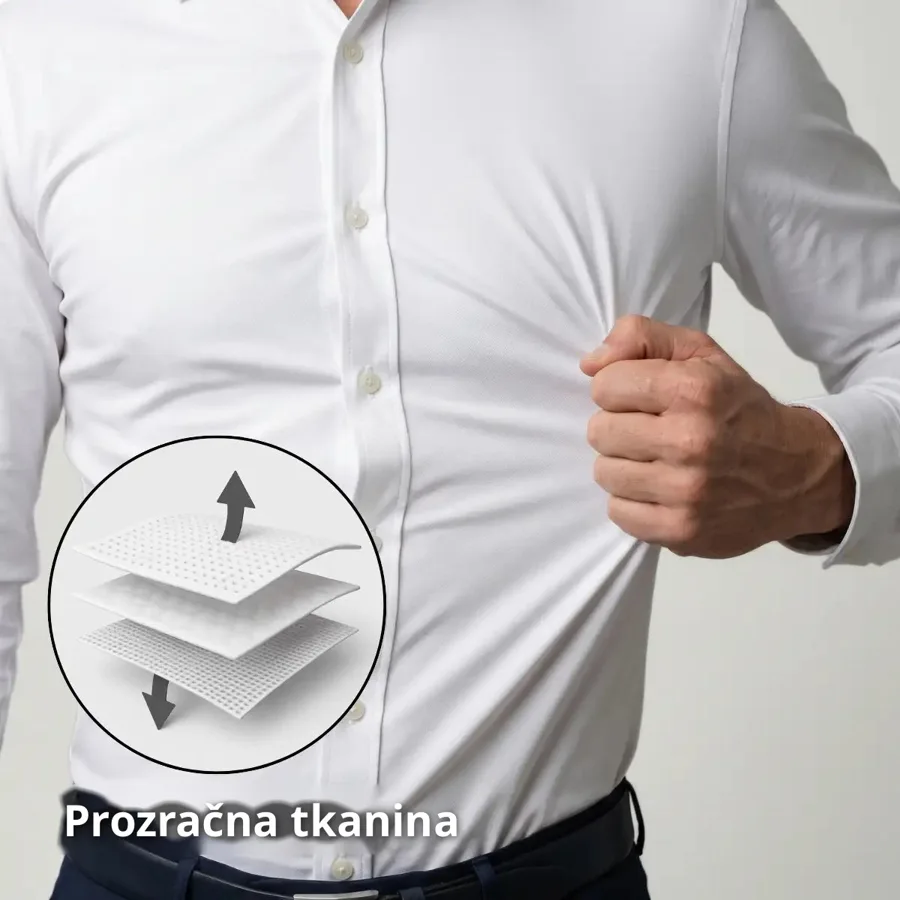
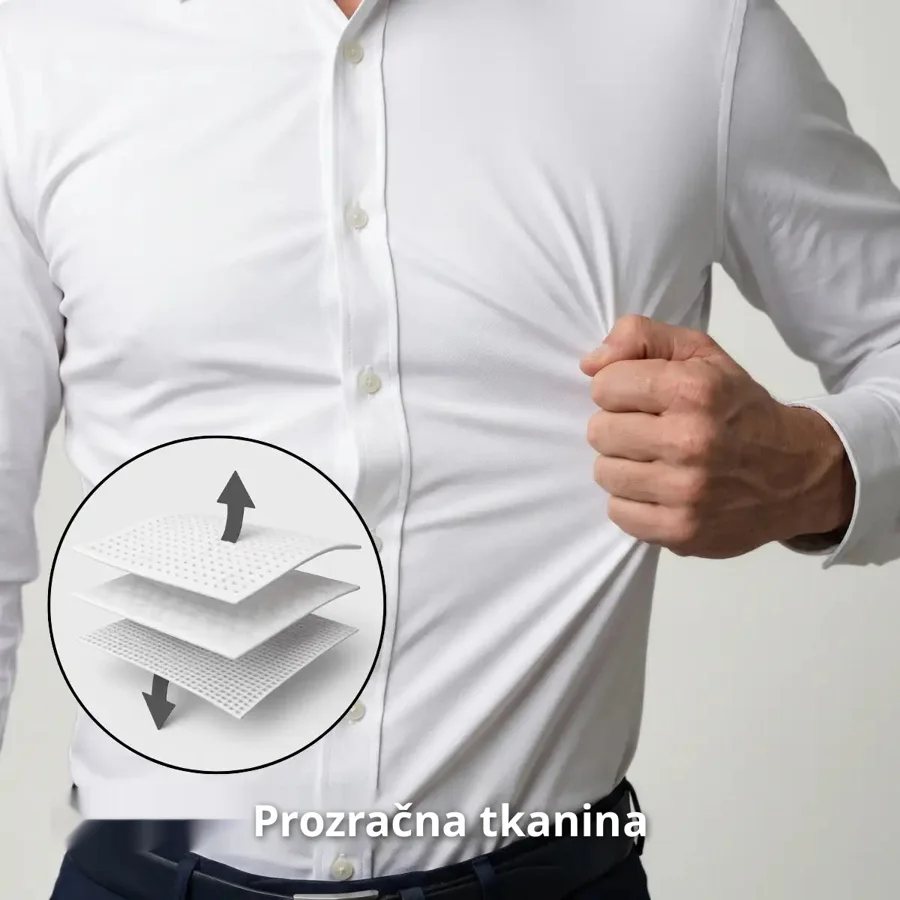
Primerjalne tabele v why sekcijah: glava tabele s temnim ozadjem in belim napisom z !important - tema je prepisala ozadje, bel napis v glavi ni bil viden (NoIron, Flomasteri, Classics, DuoSleep, Insoles, PhoneStrap, TacPro, WebShot); NoIron: napis na sliki tkanine na sredino, da ga obrez 4/5 ne odre

Changed region(s): [[0.0622, 0.8711, 0.7467, 0.9644]]

diff --git a/wp-content/themes/noriks/template_parts/product-bottom/why-acryliques.php b/wp-content/themes/noriks/template_parts/product-bottom/why-acryliques.php
@@ -50,7 +50,7 @@ if ( ! defined( 'ABSPATH' ) ) { exit; }
 .wsacryliques__kv{list-style:none;margin:0 0 6px;padding:0}.wsacryliques__kv li{position:relative;padding-left:30px;margin:0 0 12px;font-size:15.5px;line-height:1.55;list-style:none}
 .wsacryliques__kv li::before{content:"\2713";position:absolute;left:0;top:1px;width:20px;height:20px;border-radius:50%;background:#1d2b4f;color:#fff;font-size:12px;display:flex;align-items:center;justify-content:center}
 .wsacryliques__tw{overflow-x:auto}.wsacryliques__tab{width:100%;border-collapse:collapse;background:#fff;border-radius:14px;overflow:hidden;font-size:15px}
-.wsacryliques__tab th,.wsacryliques__tab td{padding:12px 14px;border-bottom:1px solid #eee;text-align:center}.wsacryliques__tab th{background:#1d2b4f;color:#fff;font-weight:700}.wsacryliques__tab td:first-child,.wsacryliques__tab th:first-child{text-align:left}
+.wsacryliques__tab th,.wsacryliques__tab td{padding:12px 14px;border-bottom:1px solid #eee;text-align:center}.wsacryliques__tab th{background:#1d2b4f!important;color:#fff!important;font-weight:700}.wsacryliques__tab td:first-child,.wsacryliques__tab th:first-child{text-align:left}
 .wsacryliques__da{color:#1f8a4c;font-weight:800}.wsacryliques__ne{color:#c0392b;font-weight:800}
 .wsacryliques__plavo{background:#1d2b4f;color:#fff;text-align:center;font-weight:700;padding:12px 16px;margin:-56px 0 40px;font-size:15px}
 .wsacryliques__pog{margin-top:22px}.wsacryliques__pog>div{background:#fff;border-radius:14px;box-shadow:0 6px 20px rgba(0,0,0,.07);padding:22px 16px}.wsacryliques__pog span{color:#444;opacity:1}

diff --git a/wp-content/themes/noriks/template_parts/product-bottom/why-phonestrap.php b/wp-content/themes/noriks/template_parts/product-bottom/why-phonestrap.php
@@ -47,7 +47,7 @@ if ( ! defined( 'ABSPATH' ) ) { exit; }
 .wsphonestrap__kv{list-style:none;margin:0 0 6px;padding:0}.wsphonestrap__kv li{position:relative;padding-left:30px;margin:0 0 12px;font-size:15.5px;line-height:1.55;list-style:none}
 .wsphonestrap__kv li::before{content:"\2713";position:absolute;left:0;top:1px;width:20px;height:20px;border-radius:50%;background:#1d2b4f;color:#fff;font-size:12px;display:flex;align-items:center;justify-content:center}
 .wsphonestrap__tw{overflow-x:auto}.wsphonestrap__tab{width:100%;border-collapse:collapse;background:#fff;border-radius:14px;overflow:hidden;font-size:15px}
-.wsphonestrap__tab th,.wsphonestrap__tab td{padding:12px 14px;border-bottom:1px solid #eee;text-align:center}.wsphonestrap__tab th{background:#1d2b4f;color:#fff;font-weight:700}.wsphonestrap__tab td:first-child,.wsphonestrap__tab th:first-child{text-align:left}
+.wsphonestrap__tab th,.wsphonestrap__tab td{padding:12px 14px;border-bottom:1px solid #eee;text-align:center}.wsphonestrap__tab th{background:#1d2b4f!important;color:#fff!important;font-weight:700}.wsphonestrap__tab td:first-child,.wsphonestrap__tab th:first-child{text-align:left}
 .wsphonestrap__da{color:#1f8a4c;font-weight:800}.wsphonestrap__ne{color:#c0392b;font-weight:800}
 .wsphonestrap__plavo{background:#1d2b4f;color:#fff;text-align:center;font-weight:700;padding:12px 16px;margin:-56px 0 40px;font-size:15px}
 .wsphonestrap__pog{margin-top:22px}.wsphonestrap__pog>div{background:#fff;border-radius:14px;box-shadow:0 6px 20px rgba(0,0,0,.07);padding:22px 16px}.wsphonestrap__pog span{color:#444;opacity:1}

diff --git a/wp-content/themes/noriks/template_parts/product-bottom/why-classics.php b/wp-content/themes/noriks/template_parts/product-bottom/why-classics.php
@@ -53,7 +53,7 @@ if ( ! defined( 'ABSPATH' ) ) { exit; }
 .wsclassics__kv{list-style:none;margin:0 0 6px;padding:0}.wsclassics__kv li{position:relative;padding-left:30px;margin:0 0 12px;font-size:15.5px;line-height:1.55;list-style:none}
 .wsclassics__kv li::before{content:"\2713";position:absolute;left:0;top:1px;width:20px;height:20px;border-radius:50%;background:#1d2b4f;color:#fff;font-size:12px;display:flex;align-items:center;justify-content:center}
 .wsclassics__tw{overflow-x:auto}.wsclassics__tab{width:100%;border-collapse:collapse;background:#fff;border-radius:14px;overflow:hidden;font-size:15px}
-.wsclassics__tab th,.wsclassics__tab td{padding:12px 14px;border-bottom:1px solid #eee;text-align:center}.wsclassics__tab th{background:#1d2b4f;color:#fff;font-weight:700}.wsclassics__tab td:first-child,.wsclassics__tab th:first-child{text-align:left}
+.wsclassics__tab th,.wsclassics__tab td{padding:12px 14px;border-bottom:1px solid #eee;text-align:center}.wsclassics__tab th{background:#1d2b4f!important;color:#fff!important;font-weight:700}.wsclassics__tab td:first-child,.wsclassics__tab th:first-child{text-align:left}
 .wsclassics__da{color:#1f8a4c;font-weight:800}.wsclassics__ne{color:#c0392b;font-weight:800}
 .wsclassics__plavo{background:#1d2b4f;color:#fff;text-align:center;font-weight:700;padding:12px 16px;margin:-56px 0 40px;font-size:15px}
 .wsclassics__pog{margin-top:22px}.wsclassics__pog>div{background:#fff;border-radius:14px;box-shadow:0 6px 20px rgba(0,0,0,.07);padding:22px 16px}.wsclassics__pog span{color:#444;opacity:1}

diff --git a/wp-content/themes/noriks/template_parts/product-bottom/why-noiron.php b/wp-content/themes/noriks/template_parts/product-bottom/why-noiron.php
@@ -48,7 +48,7 @@ if ( ! defined( 'ABSPATH' ) ) { exit; }
 .wsnoiron__kv{list-style:none;margin:0 0 6px;padding:0}.wsnoiron__kv li{position:relative;padding-left:30px;margin:0 0 12px;font-size:15.5px;line-height:1.55;list-style:none}
 .wsnoiron__kv li::before{content:"\2713";position:absolute;left:0;top:1px;width:20px;height:20px;border-radius:50%;background:#1d2b4f;color:#fff;font-size:12px;display:flex;align-items:center;justify-content:center}
 .wsnoiron__tw{overflow-x:auto}.wsnoiron__tab{width:100%;border-collapse:collapse;background:#fff;border-radius:14px;overflow:hidden;font-size:15px}
-.wsnoiron__tab th,.wsnoiron__tab td{padding:12px 14px;border-bottom:1px solid #eee;text-align:center}.wsnoiron__tab th{background:#1d2b4f;color:#fff;font-weight:700}.wsnoiron__tab td:first-child,.wsnoiron__tab th:first-child{text-align:left}
+.wsnoiron__tab th,.wsnoiron__tab td{padding:12px 14px;border-bottom:1px solid #eee;text-align:center}.wsnoiron__tab th{background:#1d2b4f!important;color:#fff!important;font-weight:700}.wsnoiron__tab td:first-child,.wsnoiron__tab th:first-child{text-align:left}
 .wsnoiron__thimg{display:block;width:96px;max-width:100%;height:auto;margin:0 auto 8px;border-radius:10px}.wsnoiron__th span{display:block}
 .wsnoiron__km--ikona{padding:22px 0 0;text-align:center}.wsnoiron__km--ikona img{width:72px;height:72px;aspect-ratio:auto;object-fit:contain;margin:0 auto}.wsnoiron__km--ikona+.wsnoiron__kt{text-align:center}
 .wsnoiron__da{color:#1f8a4c;font-weight:800}.wsnoiron__ne{color:#c0392b;font-weight:800}

diff --git a/wp-content/themes/noriks/template_parts/product-bottom/why-insoles.php b/wp-content/themes/noriks/template_parts/product-bottom/why-insoles.php
@@ -47,7 +47,7 @@ if ( ! defined( 'ABSPATH' ) ) { exit; }
 .wsinsoles__kv{list-style:none;margin:0 0 6px;padding:0}.wsinsoles__kv li{position:relative;padding-left:30px;margin:0 0 12px;font-size:15.5px;line-height:1.55;list-style:none}
 .wsinsoles__kv li::before{content:"\2713";position:absolute;left:0;top:1px;width:20px;height:20px;border-radius:50%;background:#1d2b4f;color:#fff;font-size:12px;display:flex;align-items:center;justify-content:center}
 .wsinsoles__tw{overflow-x:auto}.wsinsoles__tab{width:100%;border-collapse:collapse;background:#fff;border-radius:14px;overflow:hidden;font-size:15px}
-.wsinsoles__tab th,.wsinsoles__tab td{padding:12px 14px;border-bottom:1px solid #eee;text-align:center}.wsinsoles__tab th{background:#1d2b4f;color:#fff;font-weight:700}.wsinsoles__tab td:first-child,.wsinsoles__tab th:first-child{text-align:left}
+.wsinsoles__tab th,.wsinsoles__tab td{padding:12px 14px;border-bottom:1px solid #eee;text-align:center}.wsinsoles__tab th{background:#1d2b4f!important;color:#fff!important;font-weight:700}.wsinsoles__tab td:first-child,.wsinsoles__tab th:first-child{text-align:left}
 .wsinsoles__da{color:#1f8a4c;font-weight:800}.wsinsoles__ne{color:#c0392b;font-weight:800}
 .wsinsoles__plavo{background:#1d2b4f;color:#fff;text-align:center;font-weight:700;padding:12px 16px;margin:-56px 0 40px;font-size:15px}
 .wsinsoles__pog{margin-top:22px}.wsinsoles__pog>div{background:#fff;border-radius:14px;box-shadow:0 6px 20px rgba(0,0,0,.07);padding:22px 16px}.wsinsoles__pog span{color:#444;opacity:1}

diff --git a/wp-content/themes/noriks/template_parts/product-bottom/why-webshot.php b/wp-content/themes/noriks/template_parts/product-bottom/why-webshot.php
@@ -50,7 +50,7 @@ if ( ! defined( 'ABSPATH' ) ) { exit; }
 .wswebshot__kv{list-style:none;margin:0 0 6px;padding:0}.wswebshot__kv li{position:relative;padding-left:30px;margin:0 0 12px;font-size:15.5px;line-height:1.55;list-style:none}
 .wswebshot__kv li::before{content:"\2713";position:absolute;left:0;top:1px;width:20px;height:20px;border-radius:50%;background:#1d2b4f;color:#fff;font-size:12px;display:flex;align-items:center;justify-content:center}
 .wswebshot__tw{overflow-x:auto}.wswebshot__tab{width:100%;border-collapse:collapse;background:#fff;border-radius:14px;overflow:hidden;font-size:15px}
-.wswebshot__tab th,.wswebshot__tab td{padding:12px 14px;border-bottom:1px solid #eee;text-align:center}.wswebshot__tab th{background:#1d2b4f;color:#fff;font-weight:700}.wswebshot__tab td:first-child,.wswebshot__tab th:first-child{text-align:left}
+.wswebshot__tab th,.wswebshot__tab td{padding:12px 14px;border-bottom:1px solid #eee;text-align:center}.wswebshot__tab th{background:#1d2b4f!important;color:#fff!important;font-weight:700}.wswebshot__tab td:first-child,.wswebshot__tab th:first-child{text-align:left}
 .wswebshot__da{color:#1f8a4c;font-weight:800}.wswebshot__ne{color:#c0392b;font-weight:800}
 .wswebshot__plavo{background:#1d2b4f;color:#fff;text-align:center;font-weight:700;padding:12px 16px;margin:-56px 0 40px;font-size:15px}
 .wswebshot__pog{margin-top:22px}.wswebshot__pog>div{background:#fff;border-radius:14px;box-shadow:0 6px 20px rgba(0,0,0,.07);padding:22px 16px}.wswebshot__pog span{color:#444;opacity:1}

diff --git a/wp-content/themes/noriks/template_parts/product-bottom/why-tacpro.php b/wp-content/themes/noriks/template_parts/product-bottom/why-tacpro.php
@@ -51,7 +51,7 @@ if ( ! defined( 'ABSPATH' ) ) { exit; }
 .wstacpro__kv{list-style:none;margin:0 0 6px;padding:0}.wstacpro__kv li{position:relative;padding-left:30px;margin:0 0 12px;font-size:15.5px;line-height:1.55;list-style:none}
 .wstacpro__kv li::before{content:"\2713";position:absolute;left:0;top:1px;width:20px;height:20px;border-radius:50%;background:#1d2b4f;color:#fff;font-size:12px;display:flex;align-items:center;justify-content:center}
 .wstacpro__tw{overflow-x:auto}.wstacpro__tab{width:100%;border-collapse:collapse;background:#fff;border-radius:14px;overflow:hidden;font-size:15px}
-.wstacpro__tab th,.wstacpro__tab td{padding:12px 14px;border-bottom:1px solid #eee;text-align:center}.wstacpro__tab th{background:#1d2b4f;color:#fff;font-weight:700}.wstacpro__tab td:first-child,.wstacpro__tab th:first-child{text-align:left}
+.wstacpro__tab th,.wstacpro__tab td{padding:12px 14px;border-bottom:1px solid #eee;text-align:center}.wstacpro__tab th{background:#1d2b4f!important;color:#fff!important;font-weight:700}.wstacpro__tab td:first-child,.wstacpro__tab th:first-child{text-align:left}
 .wstacpro__da{color:#1f8a4c;font-weight:800}.wstacpro__ne{color:#c0392b;font-weight:800}
 .wstacpro__plavo{background:#1d2b4f;color:#fff;text-align:center;font-weight:700;padding:12px 16px;margin:-56px 0 40px;font-size:15px}
 .wstacpro__pog{margin-top:22px}.wstacpro__pog>div{background:#fff;border-radius:14px;box-shadow:0 6px 20px rgba(0,0,0,.07);padding:22px 16px}.wstacpro__pog span{color:#444;opacity:1}

diff --git a/wp-content/themes/noriks/template_parts/product-bottom/why-draps.php b/wp-content/themes/noriks/template_parts/product-bottom/why-draps.php
@@ -47,7 +47,7 @@ if ( ! defined( 'ABSPATH' ) ) { exit; }
 .wsdraps__kv{list-style:none;margin:0 0 6px;padding:0}.wsdraps__kv li{position:relative;padding-left:30px;margin:0 0 12px;font-size:15.5px;line-height:1.55;list-style:none}
 .wsdraps__kv li::before{content:"\2713";position:absolute;left:0;top:1px;width:20px;height:20px;border-radius:50%;background:#1d2b4f;color:#fff;font-size:12px;display:flex;align-items:center;justify-content:center}
 .wsdraps__tw{overflow-x:auto}.wsdraps__tab{width:100%;border-collapse:collapse;background:#fff;border-radius:14px;overflow:hidden;font-size:15px}
-.wsdraps__tab th,.wsdraps__tab td{padding:12px 14px;border-bottom:1px solid #eee;text-align:center}.wsdraps__tab th{background:#1d2b4f;color:#fff;font-weight:700}.wsdraps__tab td:first-child,.wsdraps__tab th:first-child{text-align:left}
+.wsdraps__tab th,.wsdraps__tab td{padding:12px 14px;border-bottom:1px solid #eee;text-align:center}.wsdraps__tab th{background:#1d2b4f!important;color:#fff!important;font-weight:700}.wsdraps__tab td:first-child,.wsdraps__tab th:first-child{text-align:left}
 .wsdraps__da{color:#1f8a4c;font-weight:800}.wsdraps__ne{color:#c0392b;font-weight:800}
 .wsdraps__plavo{background:#1d2b4f;color:#fff;text-align:center;font-weight:700;padding:12px 16px;margin:-56px 0 40px;font-size:15px}
 .wsdraps__pog{margin-top:22px}.wsdraps__pog>div{background:#fff;border-radius:14px;box-shadow:0 6px 20px rgba(0,0,0,.07);padding:22px 16px}.wsdraps__pog span{color:#444;opacity:1}
